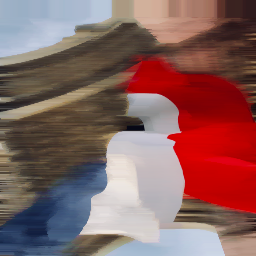
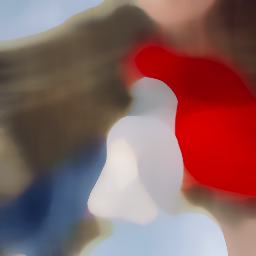
Added median

diff --git a/Lab3/median.cpp b/Lab3/median.cpp
@@ -29,7 +29,7 @@ unsigned char median_kernel(skepu::Region2D<unsigned char> image, skepu::Vec<uns
 		}
 	}
 	float temp = 0;
-	unsigned int n = 2*image.oi+1;
+	unsigned int n = idx;
 	for(int i = 0; i < n; i++) {
 		for(int j = 0; j < n-i-1; j++) {
 			if(sorted[j] > sorted[j+1]) {
@@ -40,7 +40,7 @@ unsigned char median_kernel(skepu::Region2D<unsigned char> image, skepu::Vec<uns
 		}
 	}
 
-	return sorted[image.oi];
+	return sorted[(idx-1)/2];
 }
 
 
